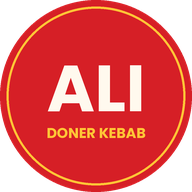
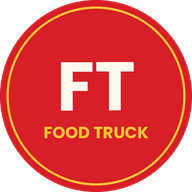
Add files via upload

Changed region(s): [[0.25, 0.3125, 0.75, 0.5938], [0.2188, 0.6562, 0.7812, 0.75]]

diff --git a/index.html b/index.html
@@ -3,7 +3,7 @@
 <head>
 <meta charset="utf-8">
 <meta name="viewport" content="width=device-width, initial-scale=1, viewport-fit=cover">
-<title>Ali Doner Kebab</title>
+<title>Food Truck</title>
 <meta name="description" content="Kebab halal en el Eixample de Barcelona. Dürüm, döner, platos combinados y taco francés. Carrer de Còrsega 629. Abierto todos los días.">
 <link rel="preconnect" href="https://fonts.googleapis.com">
 <link rel="preconnect" href="https://fonts.gstatic.com" crossorigin>
@@ -49,7 +49,7 @@
       <rect x="0" y="322" width="220" height="5" fill="#ffb627"/>
       <rect x="0" y="384" width="220" height="10" fill="#e5322a"/>
     </g>
-    <text x="110" y="366" text-anchor="middle" font-family="Big Shoulders Display, Impact, sans-serif" font-weight="900" font-size="34" fill="#e5322a" letter-spacing="2">ALI</text>
+    <text x="110" y="366" text-anchor="middle" font-family="Big Shoulders Display, Impact, sans-serif" font-weight="900" font-size="34" fill="#e5322a" letter-spacing="1">FOOD</text>
   </symbol>
 
   <symbol id="box" viewBox="0 0 200 230">
@@ -86,7 +86,7 @@
 
 <header class="top">
   <div class="wrap">
-    <a class="logo" href="#inicio"><span class="mk">ALI</span><span><b>Ali Doner</b><small>KEBAB · HALAL</small></span></a>
+    <a class="logo" href="#inicio"><span class="mk">FT</span><span><b>Food Truck</b><small>KEBAB · HALAL</small></span></a>
     <nav class="nav" aria-label="Secciones">
       <a href="#carta">Carta</a><a href="#resenas">Reseñas</a><a href="#donde">Dónde estamos</a><a href="#contacto">Contacto</a>
     </nav>
@@ -179,7 +179,7 @@
   <section class="dark where" id="donde">
     <div class="wrap">
       <div class="mapcard rise" id="mapcard">
-        <svg id="eixample" viewBox="0 0 640 440" role="img" aria-label="Mapa: Ali Doner Kebab en la calle Còrsega, cerca del metro Sant Pau | Dos de Maig y de la Sagrada Família"></svg>
+        <svg id="eixample" viewBox="0 0 640 440" role="img" aria-label="Mapa: Food Truck en la calle Còrsega, cerca del metro Sant Pau | Dos de Maig y de la Sagrada Família"></svg>
         <span class="tagmap" id="tagmap">Mapa ilustrativo</span>
       </div>
       <div>
@@ -191,7 +191,7 @@
           <li><span class="line-badge m2">L2</span><span class="line-badge m5">L5</span><span>Sagrada Família <small>· a unos 600 m</small></span></li>
         </ul>
         <div class="cta">
-          <a class="btn btn-s" href="https://www.google.com/maps/dir/?api=1&amp;destination=Ali+Doner+Kebab&amp;destination_place_id=ChIJ700T7dqipBIRBsOpaom4KTE" target="_blank" rel="noopener">Cómo llegar</a>
+          <a class="btn btn-s" href="https://www.google.com/maps/dir/?api=1&amp;destination=Food+Truck+Kebab&amp;destination_place_id=ChIJ700T7dqipBIRBsOpaom4KTE" target="_blank" rel="noopener">Cómo llegar</a>
           <a class="btn btn-o" href="https://maps.app.goo.gl/28sTwnWAgWaow5Tv8" target="_blank" rel="noopener">Abrir en Google Maps</a>
         </div>
       </div>
@@ -232,7 +232,7 @@
 
 <footer>
   <div class="wrap">
-    <div class="fl"><svg class="fseal" viewBox="0 0 200 200" aria-hidden="true"><use href="#halal"/></svg><span>© Ali Doner Kebab · Carrer de Còrsega 629, 08025 Barcelona</span></div>
+    <div class="fl"><svg class="fseal" viewBox="0 0 200 200" aria-hidden="true"><use href="#halal"/></svg><span>© Food Truck · Carrer de Còrsega 629, 08025 Barcelona</span></div>
     <span>Tel. 657 340 510 · 930 000 783</span>
   </div>
 </footer>

diff --git a/js/main.js b/js/main.js
@@ -1,4 +1,4 @@
-/* Lógica de la web · Ali Doner Kebab (no hace falta tocar nada aquí) */
+/* Lógica de la web · Food Truck (no hace falta tocar nada aquí) */
 
 const reduceMotion = window.matchMedia("(prefers-reduced-motion: reduce)").matches;
 const esc = s => String(s).replace(/&/g,"&amp;").replace(/</g,"&lt;").replace(/"/g,"&quot;");
@@ -110,8 +110,8 @@ renderCarta();
   const card = document.getElementById("mapcard");
   if(USE_GOOGLE_MAP_EMBED){
     const f = document.createElement("iframe");
-    f.src = "https://maps.google.com/maps?q=Ali+Doner+Kebab,+Carrer+de+C%C3%B2rsega+629,+08025+Barcelona&z=16&output=embed";
-    f.title = "Mapa de Ali Doner Kebab"; f.loading = "lazy";
+    f.src = "https://maps.google.com/maps?q=Carrer+de+C%C3%B2rsega+629,+08025+Barcelona&z=16&output=embed";
+    f.title = "Mapa de Food Truck"; f.loading = "lazy";
     card.appendChild(f);
     document.getElementById("tagmap").hidden = true;
     return;
@@ -147,7 +147,7 @@ renderCarta();
       <path d="M0 6 C-16 -12 -20 -22 -20 -32 a20 20 0 0 1 40 0 c0 10 -4 20 -20 38z" fill="#ff4a3d" stroke="#fff3e2" stroke-width="3"/>
       <circle cy="-32" r="8" fill="#fff3e2"/>
       <rect x="-66" y="16" width="132" height="30" rx="15" fill="#fff3e2"/>
-      <text y="36" text-anchor="middle" font-family="Figtree, sans-serif" font-weight="800" font-size="14" fill="#1a120e">Ali Doner Kebab</text>
+      <text y="36" text-anchor="middle" font-family="Figtree, sans-serif" font-weight="800" font-size="14" fill="#1a120e">Food Truck</text>
     </g>`;
 })();
 
@@ -177,7 +177,7 @@ function paintReviews(rating, count, reviews){
 }
 async function loadReviews(){
   try{
-    const cached = JSON.parse(localStorage.getItem("ali_reviews") || "null");
+    const cached = JSON.parse(localStorage.getItem("ft_reviews") || "null");
     if(cached && Date.now() - cached.t < 12 * 3600 * 1000){ paintReviews(cached.rating, cached.count, cached.reviews); return; }
   }catch(e){}
   try{
@@ -191,7 +191,7 @@ async function loadReviews(){
                 uri: r.authorAttribution && r.authorAttribution.uri }
     }));
     paintReviews(place.rating, place.userRatingCount, reviews);
-    try{ localStorage.setItem("ali_reviews", JSON.stringify({ t: Date.now(), rating: place.rating, count: place.userRatingCount, reviews })); }catch(e){}
+    try{ localStorage.setItem("ft_reviews", JSON.stringify({ t: Date.now(), rating: place.rating, count: place.userRatingCount, reviews })); }catch(e){}
   }catch(e){ /* sin clave o sin cuota: se queda la nota fija y los botones */ }
 }
 if(GOOGLE_API_KEY){

diff --git a/js/config.js b/js/config.js
@@ -1,5 +1,5 @@
 /* =====================================================================
-   CONFIGURACIÓN DE LA WEB · Ali Doner Kebab
+   CONFIGURACIÓN DE LA WEB · Food Truck
    Todo lo que se suele cambiar está aquí. Los platos y precios están en js/carta.js
    ===================================================================== */
 
@@ -17,5 +17,5 @@ const USE_GOOGLE_MAP_EMBED = true;
    3. Pon un límite de unas 30 peticiones al día para no pasar de las 1.000 gratis al mes.
    4. Pega la clave aquí. Sin clave, la web enseña la nota y los botones, sin las tarjetas. */
 const GOOGLE_API_KEY = "";
-const PLACE_ID = "ChIJ700T7dqipBIRBsOpaom4KTE";   // ficha de Ali Doner Kebab en Google Maps
+const PLACE_ID = "ChIJ700T7dqipBIRBsOpaom4KTE";   // ficha del local en Google Maps
 const MIN_STARS = 4;   // solo enseña reseñas de 4 y 5 estrellas (pon 1 para enseñarlas todas)

diff --git a/css/styles.css b/css/styles.css
@@ -1,4 +1,4 @@
-/* Estilos de la web · Ali Doner Kebab */
+/* Estilos de la web · Food Truck */
 
 /* Layout: "night market" kebab shop — dark grill-black stage with neon signage type and a hand-drawn dürüm that flies across as you scroll; the carta is a warm paper menu laid on top; map + contact close the page. Single deliberate dark look with one paper section. */
 :root{

diff --git a/js/carta.js b/js/carta.js
@@ -1,5 +1,5 @@
 /* =====================================================================
-   CARTA DE LA WEB · Ali Doner Kebab
+   CARTA DE LA WEB · Food Truck
    [nombre, precio, descripción, etiqueta opcional]
    ===================================================================== */
 const M3 = "Pollo · Ternera · Mixto";

diff --git a/README.md b/README.md
@@ -1,7 +1,8 @@
-# Ali Doner Kebab · Web y apps
+# Food Truck · Web y apps
 
 Dos partes: la web y el sistema de pedidos (tablet en cada mesa + cocina y caja).
 Cada carpeta final se sube tal cual a un hosting estático (GitHub Pages, Netlify…) y funciona sola.
+Cada carpeta lleva un archivo vacío `.nojekyll`: súbelo también, para que GitHub Pages publique los archivos tal cual sin intentar procesarlos con Jekyll.
 
 ```
 web/                     Página web del local (clientes en internet)
@@ -23,8 +24,8 @@ Las imágenes están en `img/` y los iconos de la app (`icon-*.png`, `manifest.j
 ## Cómo se conectan
 
 1. El cliente pide en la **tablet de mesa** (`pedidos/mesa/`).
-2. Los platos se añaden a la comanda de esa mesa en Firebase (`alidoner/sessions/sala/orders/<mesa>`).
-3. **Cocina y Caja** (`pedidos/cocina-caja/`) los ve al momento y muestra un aviso con sonido (`alidoner/sessions/sala/inbox`).
+2. Los platos se añaden a la comanda de esa mesa en Firebase (`foodtruck/sessions/sala/orders/<mesa>`).
+3. **Cocina y Caja** (`pedidos/cocina-caja/`) los ve al momento y muestra un aviso con sonido (`foodtruck/sessions/sala/inbox`).
 4. Los botones "Llamar al camarero" y "Pedir la cuenta" también llegan como aviso.
 
 Las dos apps tienen que usar **el mismo Firebase**: `pedidos/mesa/js/config.js` y `pedidos/cocina-caja/js/config.js`.
